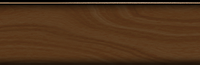
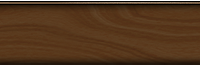
Etwas Pixel schubsen im Menü

Changed region(s): [[0.0, 0.0, 1.0, 0.0308]]

diff --git a/css/web/style-menu.css b/css/web/style-menu.css
@@ -416,12 +416,12 @@ p {
 .hud-btn-left::before,
 .hud-btn-right::before {
 	content: '';
-	height: 60px;
+	height: 59px;
 	width: 16px;
 	display: block;
 	position: absolute;
 	right: 1px;
-	bottom: 0;
+	bottom: 1px;
 }
 
 .hud-btn-left::before {
@@ -430,7 +430,6 @@ p {
 }
 
 .hud-btn-right::before {
-	bottom: 1px;
 	background-position: -256px -63px;
 }
 
@@ -451,16 +450,17 @@ p {
 
 .hud-btn {
 	display: block;
-	background-position: -183px -122px;
+	background-position: -183px -123px;
 	width: 55px;
 	height: 55px;
 	position: relative;
+	margin-bottom: 2px;
 	float: left;
 	top: 2px;
 }
 
 .hud-btn-red {
-	background-position: -183px -65px;
+	background-position: -183px -66px;
 }
 
 .hud-btn span:first-child {
